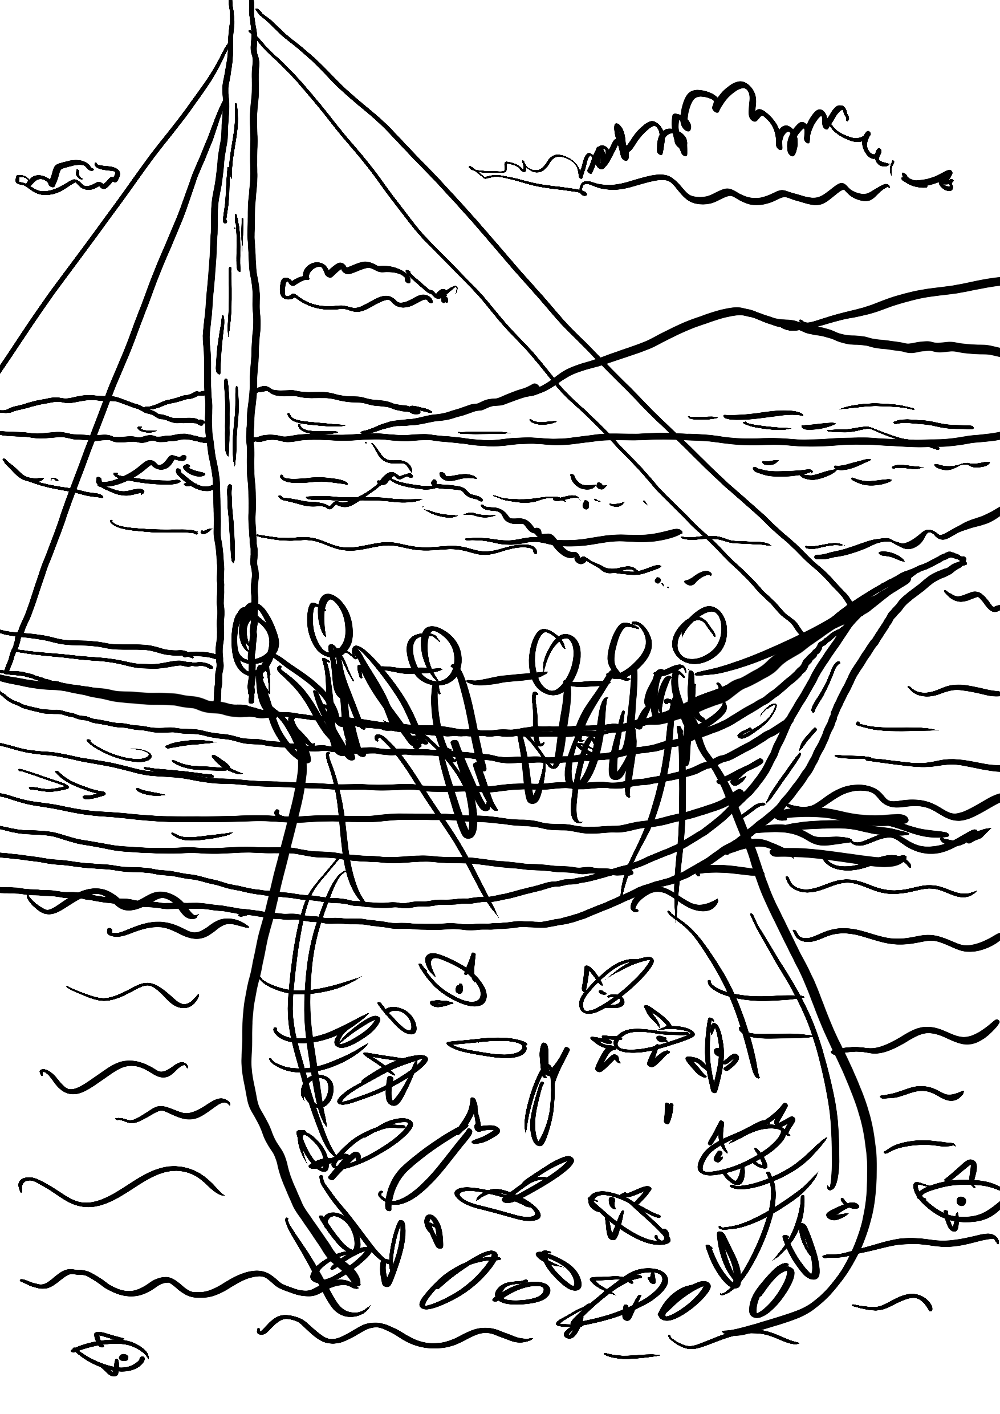
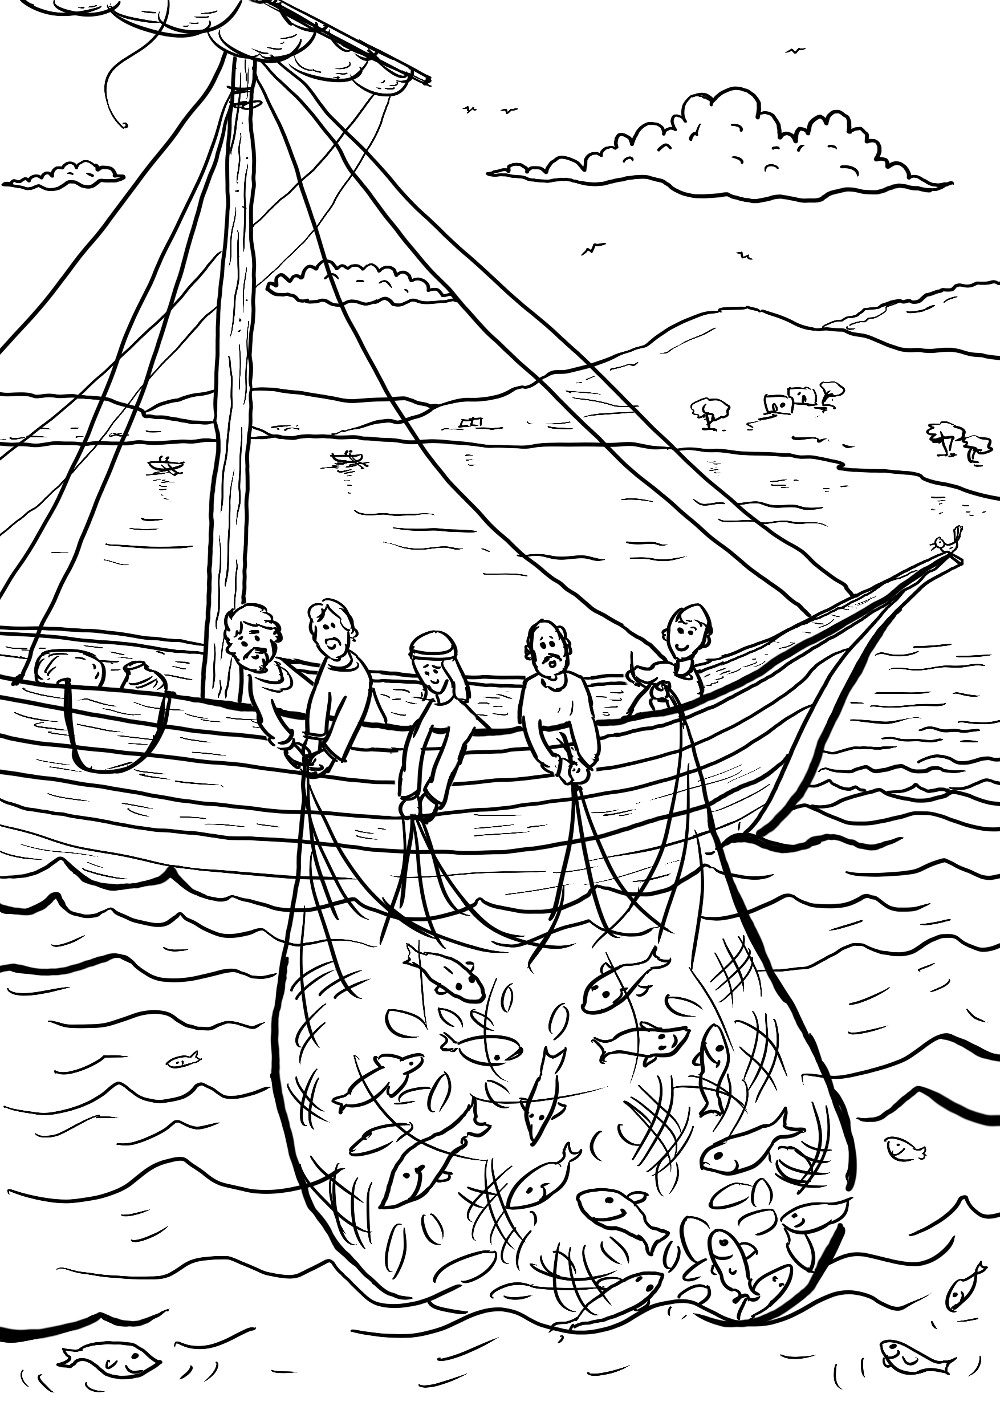
Update 35.

diff --git a/script.js b/script.js
@@ -3,7 +3,7 @@ angular.module('galleryApp', [])
     var gallery = this;
     gallery.language = "ro";
     gallery.work_start_date = new Date(2017,02,12);
-    gallery.worked_hours = 63;  // EDIT HERE
+    gallery.worked_hours = 64;  // EDIT HERE
 
     gallery.get_global_progress = function() {
       var index;
@@ -579,7 +579,7 @@ angular.module('galleryApp', [])
       {
         id: 35,
         img: '35.png',
-        done: 50,
+        done: 100,
         title: {
           ro: "A doua pescuire minunată",
           en: "Second miraculous catch of fish"
